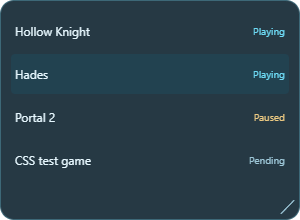
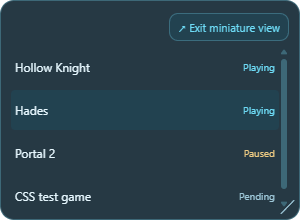
Add a visible one-click exit from Miniature

diff --git a/src/Checkpoint.App/Web/app.js b/src/Checkpoint.App/Web/app.js
@@ -131,12 +131,15 @@ function frame() {
   resize.addEventListener('pointerdown', e => { if (state.locked) return; point = [e.screenX,e.screenY]; resize.setPointerCapture(e.pointerId); e.preventDefault(); });
   resize.addEventListener('pointermove', e => { if (!point) return; const x=e.screenX-point[0], y=e.screenY-point[1]; point=[e.screenX,e.screenY]; if (x || y) action('resize',{x,y}); }); resize.addEventListener('pointerup', () => point = undefined); resize.addEventListener('lostpointercapture', () => point = undefined);
   const collectionbar=el('div','collectionbar'),collections=el('select','collection-selector');collections.addEventListener('change',()=>action('collection',{value:collections.value}));collectionbar.append(collections,button('', 'manage-lists', '', {},'manage-lists'));
-  windowNode.append(header,intro,navigation,searchbar,collectionbar,viewport,footer,shortcutbar,strip,resize); root.append(windowNode);
+  const miniControls=el('div','mini-controls');miniControls.append(button('', 'exit-mini', '', {}, 'mini-exit'));
+  windowNode.append(header,intro,navigation,searchbar,collectionbar,miniControls,viewport,footer,shortcutbar,strip,resize); root.append(windowNode);
   windowNode.addEventListener('contextmenu', e => { if (state.mini && !e.target.closest('[data-game]')) { e.preventDefault(); showMenu(null,e.clientX,e.clientY); } });
 }
 function renderMain() {
   if (dialogMode || !root.querySelector('.window')) frame(); dialogMode = false;
   const host = root.querySelector('.window'); host.classList.toggle('mini', state.mini); host.classList.toggle('full',state.full);
+  const miniExit=host.querySelector('.mini-exit');miniExit.textContent='↗ '+state.labels.exitMini;miniExit.title=state.labels.exitMini;miniExit.setAttribute('aria-label',state.labels.exitMini);
+  if(!state.mini && document.activeElement?.closest('.mini-controls'))host.querySelector('.viewport').focus({preventScroll:true});
   if(state.mini && document.activeElement?.closest('.header,.navigation,.searchbar,.collectionbar,.footer,.shortcutbar,.web-toolbar'))host.querySelector('.viewport').focus({preventScroll:true});
   const modes=host.querySelector('.window-mode'); if(modes){modes.replaceChildren(); [state.labels.fullWindow,state.labels.smallWindow,state.labels.miniature].forEach((text,index)=>{const option=el('option','',text);option.value=index;modes.append(option);}); modes.value=state.mini?2:state.full?0:1; modes.setAttribute('aria-label',state.labels.windowMode);}
   host.style.setProperty('--opacity', state.opacity); host.style.setProperty('--mini-size', `${state.textSize}px`);

diff --git a/src/Checkpoint.App/Web/app.css b/src/Checkpoint.App/Web/app.css
@@ -61,3 +61,7 @@ input::placeholder,textarea::placeholder { color:var(--muted); opacity:1; }
 .achievement-card button { align-self:flex-start; }
 .achievement-description { background:var(--input); border-radius:8px; padding:12px; font-size:13px; line-height:1.6; }
 @media(max-width:400px) { .achievement-summary { padding:14px; } .achievement-summary .heading { font-size:21px; } .achievement-card { padding:12px; } }
+
+.mini-controls { display:none; }
+.mini .mini-controls { display:flex; justify-content:flex-end; flex:none; padding:2px 0 6px; }
+.mini-exit { min-height:28px; padding:4px 8px; font-size:11px; color:var(--accent); }

diff --git a/src/Checkpoint.App/WebSmokeTests.cs b/src/Checkpoint.App/WebSmokeTests.cs
@@ -168,10 +168,16 @@ public partial class MainWindow
             Check(await Script(web,"document.querySelectorAll('.menu button[role=menuitemradio]').length===10+window.checkpointState.collections.length"),"Miniature state and window actions render in an HTML context menu");
             await Run("[...document.querySelectorAll('.menu button')].find(b=>b.textContent.includes('Playing')).click();");
             Check(Store.LoadGames().Single(g=>g.Id==activeGameId).Status==GameStatus.Playing,"HTML state actions persist through the native controller");
+            Check(await Script(web,"document.querySelector('.mini-exit').getAttribute('aria-label')==='Exit miniature view' && document.querySelector('.mini-exit').getBoundingClientRect().bottom<=document.querySelector('.viewport').getBoundingClientRect().top"),"Miniature offers a visible English exit button above the game list");
             await Capture(web,"css-miniature-en.png");
             Preferences.Language="es"; I18n.SetLanguage("es"); ApplyPreferences(); Refresh(); await Task.Delay(300);
             Check(await Script(web,"document.documentElement.lang==='es' && [...document.querySelectorAll('.minirow .status')].some(node=>node.textContent==='Jugando')"),"CSS Miniature changes all state labels to Spanish");
+            Check(await Script(web,"document.querySelector('.mini-exit').textContent.includes('Salir de miniatura') && !document.querySelector('.mini-exit').textContent.includes('Exit')"),"Miniature exit button follows the selected Spanish language");
             await Capture(web,"css-miniature-es.png");
+            bool previousGrid=Preferences.GridView,previousCompact=Preferences.Compact;
+            await Run("document.querySelector('.mini-exit').click();");
+            Check(!Preferences.MiniatureView && !Store.LoadSettings().MiniatureView && Preferences.GridView==previousGrid && Preferences.Compact==previousCompact && await Script(web,"!window.checkpointState.mini && getComputedStyle(document.querySelector('.mini-controls')).display==='none'"),"clicking visible Miniature exit restores and saves the previous normal layout");
+            Preferences.MiniatureView=true;ApplyPreferences();Persist();Refresh();await Task.Delay(300);
             Preferences.Language="en"; I18n.SetLanguage("en"); ApplyPreferences(); Refresh(); await Task.Delay(300);
             await Run("document.dispatchEvent(new KeyboardEvent('keydown',{key:'F2',bubbles:true}));");
             var edit=await Dialog();

diff --git a/README.md b/README.md
@@ -27,13 +27,13 @@ Current captures come from the actual local HTML/CSS interface in WebView2, usin
 
 ## Download and run
 
-Current version: **0.8.2**. Build outputs in `dist`:
+Current version: **0.8.3**. Build outputs in `dist`:
 
-- `Checkpoint-0.8.2-win-x64.zip`: portable edition. Extract the ZIP and open `Checkpoint/Checkpoint.exe`. All files stay inside the `Checkpoint` folder.
-- `Checkpoint-0.8.2-win-x64.msi`: per-user installer with Start menu shortcut and Windows uninstall support.
+- `Checkpoint-0.8.3-win-x64.zip`: portable edition. Extract the ZIP and open `Checkpoint/Checkpoint.exe`. All files stay inside the `Checkpoint` folder.
+- `Checkpoint-0.8.3-win-x64.msi`: per-user installer with Start menu shortcut and Windows uninstall support.
 - `.sha256` files: integrity checksums.
 
-Download the portable ZIP or MSI from [GitHub Releases](https://github.com/Nicolasmf05/Checkpoint/releases/tag/v0.8.2), or build from source below. The **Build and verify** GitHub Actions workflow also produces artifacts after a successful run. Packages include the .NET runtime; end users need no development tools. Windows 11 x64 is the target. Windows 10 and ARM64 hardware have not been validated; ARM64 packaging is supported. The MSI and EXE are unsigned; Windows may warn or block them. See [Windows security messages](docs/en/WINDOWS-SECURITY.md). No private certificates are included.
+Download the portable ZIP or MSI from [GitHub Releases](https://github.com/Nicolasmf05/Checkpoint/releases/tag/v0.8.3), or build from source below. The **Build and verify** GitHub Actions workflow also produces artifacts after a successful run. Packages include the .NET runtime; end users need no development tools. Windows 11 x64 is the target. Windows 10 and ARM64 hardware have not been validated; ARM64 packaging is supported. The MSI and EXE are unsigned; Windows may warn or block them. See [Windows security messages](docs/en/WINDOWS-SECURITY.md). No private certificates are included.
 
 
 Microsoft Store packaging is being prepared separately: [MSIX build and submission guide](docs/en/MICROSOFT-STORE.md). The unsigned MSIX preview is for developer validation and does not remove warnings from the current GitHub downloads.
@@ -66,9 +66,9 @@ Use the header selector or Settings → Window mode: **Full window**, **Small wi
 - **Add from Miniature:** right-click the background or a game → Add game, including when My list is empty. Opens the normal editor without leaving Miniature; Ctrl+N remains available.
 - **Page navigation in Miniature:** PageUp/PageDown move by a visible page, adapting to window height and keeping the active row focused.
 - **Miniature text size:** Settings → Miniature text size, 12–20 (default 12). Names, states and row height grow together; other views keep their text size.
-- **Return from Miniature:** right-click → Exit miniature view restores the previous list, compact or grid layout. Saving Settings while Miniature is active preserves that choice. F6 keeps cycling all four views; Search opens the normal list.
+- **Return from Miniature:** the visible **Exit miniature view** button above the list (or right-click → Exit miniature view) restores the previous list, compact or grid layout. Saving Settings while Miniature is active preserves that choice. F6 keeps cycling all four views; Search opens the normal list.
 - **Miniature keyboard controls:** Up/Down select a game, Home/End jump to the first/last, Enter/Space open its state menu. A focus outline marks the active row; focus returns after closing the menu or changing state.
-- **Miniature view:** only game names and states in a small translucent window. Settings → Collection view → Miniature, or cycle with F6. Right-click → Exit miniature view. Resize it independently from the normal widget; drag the top edge. Shows My list with no filters or cover downloads.
+- **Miniature view:** a name/status list in a small translucent window, with a visible exit button. Settings → Collection view → Miniature, or cycle with F6. Use the visible **Exit miniature view** button above the list. Resize it independently from the normal widget; drag the top edge. Shows My list with no filters or cover downloads.
 - **Optional lightweight mode:** Settings → Lightweight mode (no covers). Hides collection/friend covers, skips new image downloads and clears the decoded cover cache. Progress and saved images are preserved.
 - Frameless, movable, resizable widget; saved bounds; background opacity 35–100%; readable text/covers. Alpha translucency persists across focus changes, without Acrylic blur.
 - Dark/light themes, list/compact/cover-grid views, always-on-top and position locking.

diff --git a/README.es.md b/README.es.md
@@ -27,12 +27,12 @@ Capturas de la interfaz HTML/CSS real en WebView2 con datos de prueba aislados. 
 
 ## Descargar y utilizar
 
-La versión actual es **0.8.2**. En la carpeta `dist` se generan:
+La versión actual es **0.8.3**. En la carpeta `dist` se generan:
 
-Descarga el portable o instalador desde [GitHub Releases](https://github.com/Nicolasmf05/Checkpoint/releases/tag/v0.8.2), o compila con las instrucciones de este repositorio. El workflow **Build and verify** también genera el ZIP y MSI como artefactos cuando finaliza correctamente.
+Descarga el portable o instalador desde [GitHub Releases](https://github.com/Nicolasmf05/Checkpoint/releases/tag/v0.8.3), o compila con las instrucciones de este repositorio. El workflow **Build and verify** también genera el ZIP y MSI como artefactos cuando finaliza correctamente.
 
-- `Checkpoint-0.8.2-win-x64.msi`: instalador por usuario con acceso en el menú Inicio y desinstalación desde Windows.
-- `Checkpoint-0.8.2-win-x64.zip`: edición portable. Extrae el ZIP y abre `Checkpoint/Checkpoint.exe`. Todos los archivos quedan dentro de la carpeta `Checkpoint`.
+- `Checkpoint-0.8.3-win-x64.msi`: instalador por usuario con acceso en el menú Inicio y desinstalación desde Windows.
+- `Checkpoint-0.8.3-win-x64.zip`: edición portable. Extrae el ZIP y abre `Checkpoint/Checkpoint.exe`. Todos los archivos quedan dentro de la carpeta `Checkpoint`.
 - Archivos `.sha256`: comprobación de integridad.
 
 Los paquetes incluyen el runtime de .NET; el usuario no necesita instalar herramientas de desarrollo. La versión x64 está dirigida a Windows 11; Windows 10 no ha sido validado. La compilación ARM64 está preparada en el script, pero no se ha probado en hardware ARM.
@@ -71,9 +71,9 @@ Usa el selector de la cabecera o Ajustes → Modo de ventana: **Ventana completa
 - **Añadir desde Miniatura:** clic derecho en el fondo o un juego → Añadir juego, también con Mi lista vacía. Abre la ficha habitual sin salir de Miniatura; Ctrl+N sigue disponible.
 - **Navegación por páginas en Miniatura:** Re Pág/Av Pág avanzan una página visible, adaptándose a la altura de la ventana y manteniendo el foco en la fila activa.
 - **Texto de Miniatura:** Ajustes → Tamaño de texto en Miniatura, de 12 a 20 (predeterminado 12). Nombres, estados y altura de fila crecen juntos; el texto de otras vistas se conserva.
-- **Volver desde Miniatura:** clic derecho → Salir de miniatura recupera lista, compacta o cuadrícula anterior. Guardar Ajustes en Miniatura conserva esa elección. F6 recorre las cuatro vistas; Buscar abre la lista normal.
+- **Volver desde Miniatura:** botón visible **Salir de miniatura** encima de la lista (o clic derecho → Salir de miniatura) recupera lista, compacta o cuadrícula anterior. Guardar Ajustes en Miniatura conserva esa elección. F6 recorre las cuatro vistas; Buscar abre la lista normal.
 - **Teclado en Miniatura:** ↑/↓ recorren juegos, Inicio/Fin van al primero/último y Enter/Espacio abren el menú de estados. Un contorno marca la fila activa; recupera el foco al cerrar el menú o cambiar estado.
-- **Vista Miniatura:** solo nombres y estados en una ventana pequeña y translúcida. Ajustes → Vista de la colección → Miniatura, o cambia con F6. Clic derecho → Salir de miniatura. Tamaño independiente del widget normal; se mueve desde el borde superior. Muestra Mi lista, sin filtros ni descargas de carátulas.
+- **Vista Miniatura:** lista de nombres y estados en una ventana pequeña y translúcida, con un botón visible para volver. Ajustes → Vista de la colección → Miniatura, o cambia con F6. Pulsa **Salir de miniatura** encima de la lista. Tamaño independiente del widget normal; se mueve desde el borde superior. Muestra Mi lista, sin filtros ni descargas de carátulas.
 - **Modo ligero opcional:** Ajustes → Modo ligero (sin carátulas). Oculta imágenes de colección/amigos, evita nuevas descargas y vacía la caché decodificada. Conserva el progreso y los archivos guardados.
 - Widget sin marco, movible, redimensionable, con posición guardada y opacidad del **fondo** ajustable entre 35 % y 100 %.
 - Translucidez que conserva su apariencia al perder el foco. Esta edición utiliza transparencia alfa, **sin desenfoque Acrylic**.

diff --git a/docs/en/SCREENSHOTS.md b/docs/en/SCREENSHOTS.md
@@ -4,6 +4,12 @@
 
 Current captures use actual WebView2 HTML/CSS through `CapturePreviewAsync` in isolated package tests. Older WPF captures below are archived examples. Games/users/progress are fixtures, HTTP replies are simulated, and private cover artwork uses a solid-color image. This is not real-account signup evidence.
 
+## 0.8.3 — leave Miniature with one click
+
+The **Exit miniature view** button sits above the list and restores the previous normal layout without a shortcut or context menu.
+
+![Miniature with a visible exit button](../screenshots/css-miniature-en.png)
+
 ## 0.8.2 — achievement overview and descriptions
 
 Direct game-card access, prominent completion progress and per-achievement description toggles. Fixture data; [guide](ACHIEVEMENTS.md).

diff --git a/CHANGELOG.md b/CHANGELOG.md
@@ -2,6 +2,12 @@
 
 **English** · [Español](CHANGELOG.es.md)
 
+## 0.8.3 — 2026-10-03
+
+- Visible, localized **Exit miniature view** button above the game list: one click restores and saves the previous normal layout.
+- The control reserves its own space without covering names or states; it disappears in normal views.
+- English/Spanish real WebView2 tests verify visibility, placement and restoration. Updated screenshots and documentation.
+
 ## 0.8.2 — 2026-10-03
 
 - Direct achievement buttons and counters on game cards in Windows and the browser; compact and cover-grid layouts accommodate the new action.

diff --git a/docs/SCREENSHOTS.md b/docs/SCREENSHOTS.md
@@ -4,6 +4,12 @@
 
 Las capturas actuales proceden de WebView2 real. Juegos y progresos son ejemplos; no representan un registro con cuentas reales.
 
+## 0.8.3 — salir de miniatura con un clic
+
+El botón **Salir de miniatura** aparece encima de la lista y recupera la vista normal anterior sin usar el teclado ni abrir un menú.
+
+![Miniatura con botón para volver](screenshots/css-miniature-es.png)
+
 ## 0.8.2 — logros destacados y descripciones
 
 Acceso directo desde cada juego, resumen con progreso y botón para mostrar u ocultar la descripción. Datos de prueba; [guía](ACHIEVEMENTS.md).

diff --git a/CHANGELOG.es.md b/CHANGELOG.es.md
@@ -2,6 +2,12 @@
 
 # Historial de cambios
 
+## 0.8.3 — 2026-10-03
+
+- Botón visible **Salir de miniatura** encima de la lista: un clic recupera y guarda la vista normal anterior.
+- El botón tiene su propio espacio y no tapa nombres ni estados; desaparece en las vistas normales.
+- Pruebas reales de WebView2 en español e inglés de visibilidad, posición y restauración. Capturas y documentación actualizadas.
+
 ## 0.8.2 — 2026-10-03
 
 - Botones y contadores de logros directamente en cada juego de Windows y del navegador, también en las vistas compacta y de carátulas.
